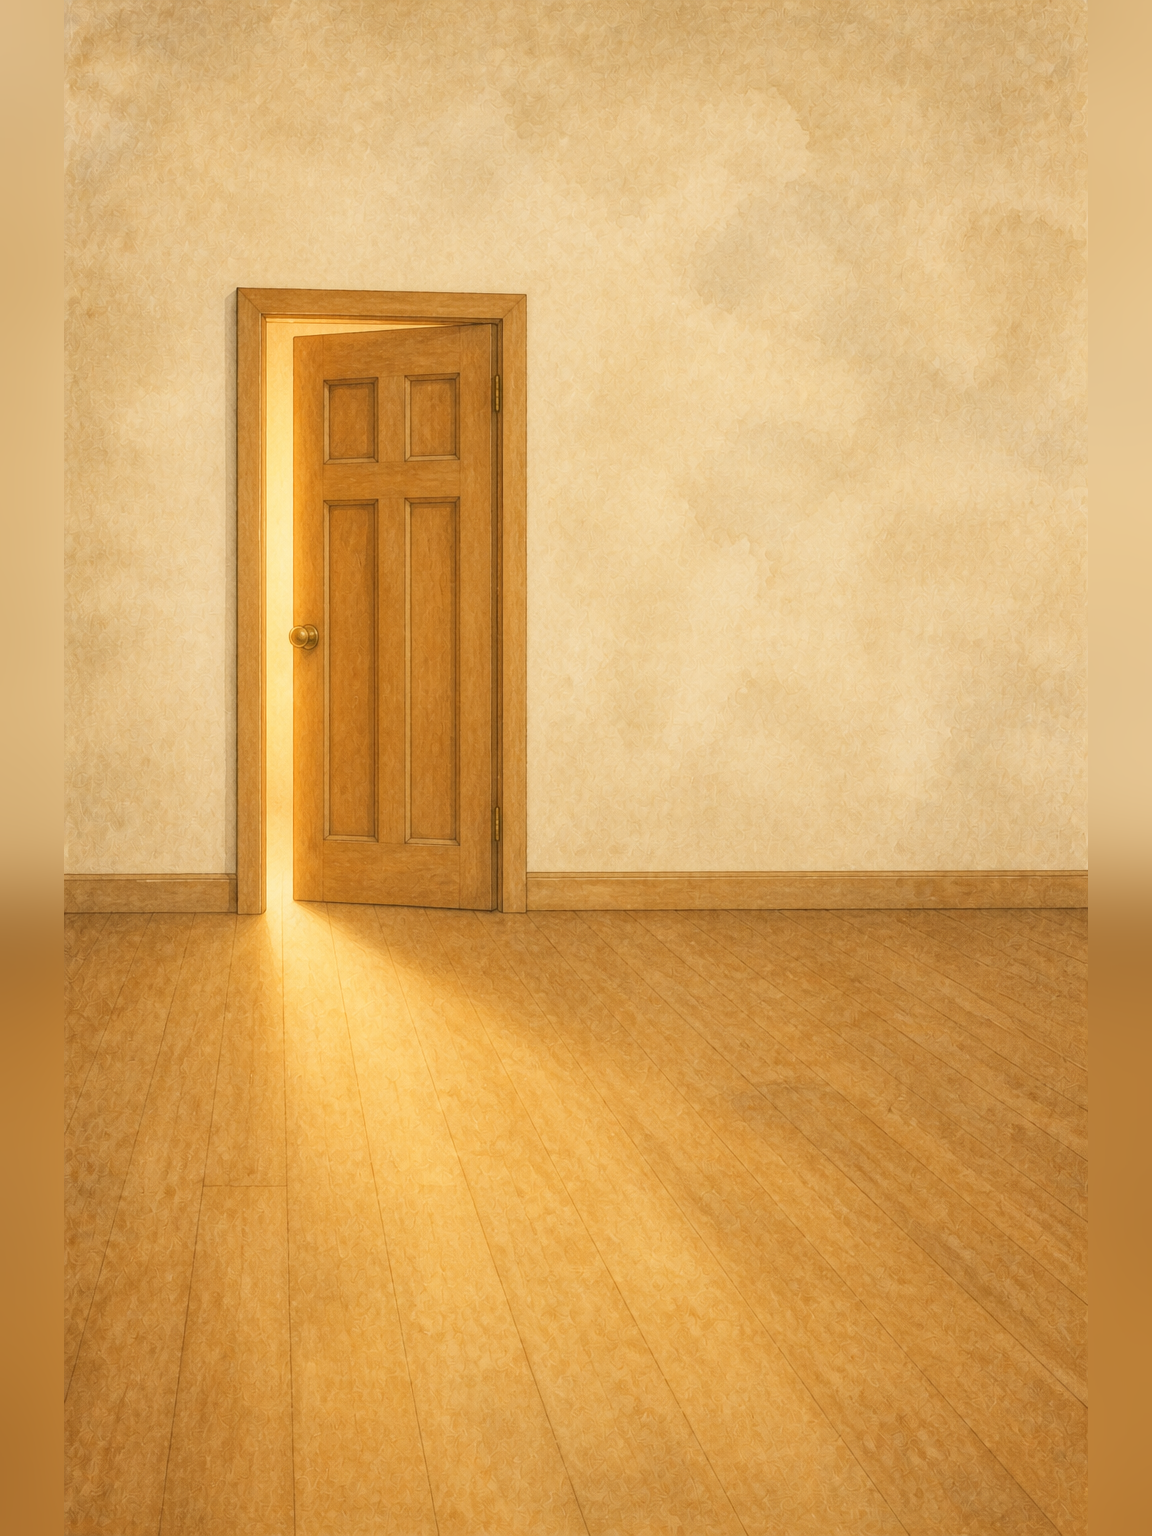
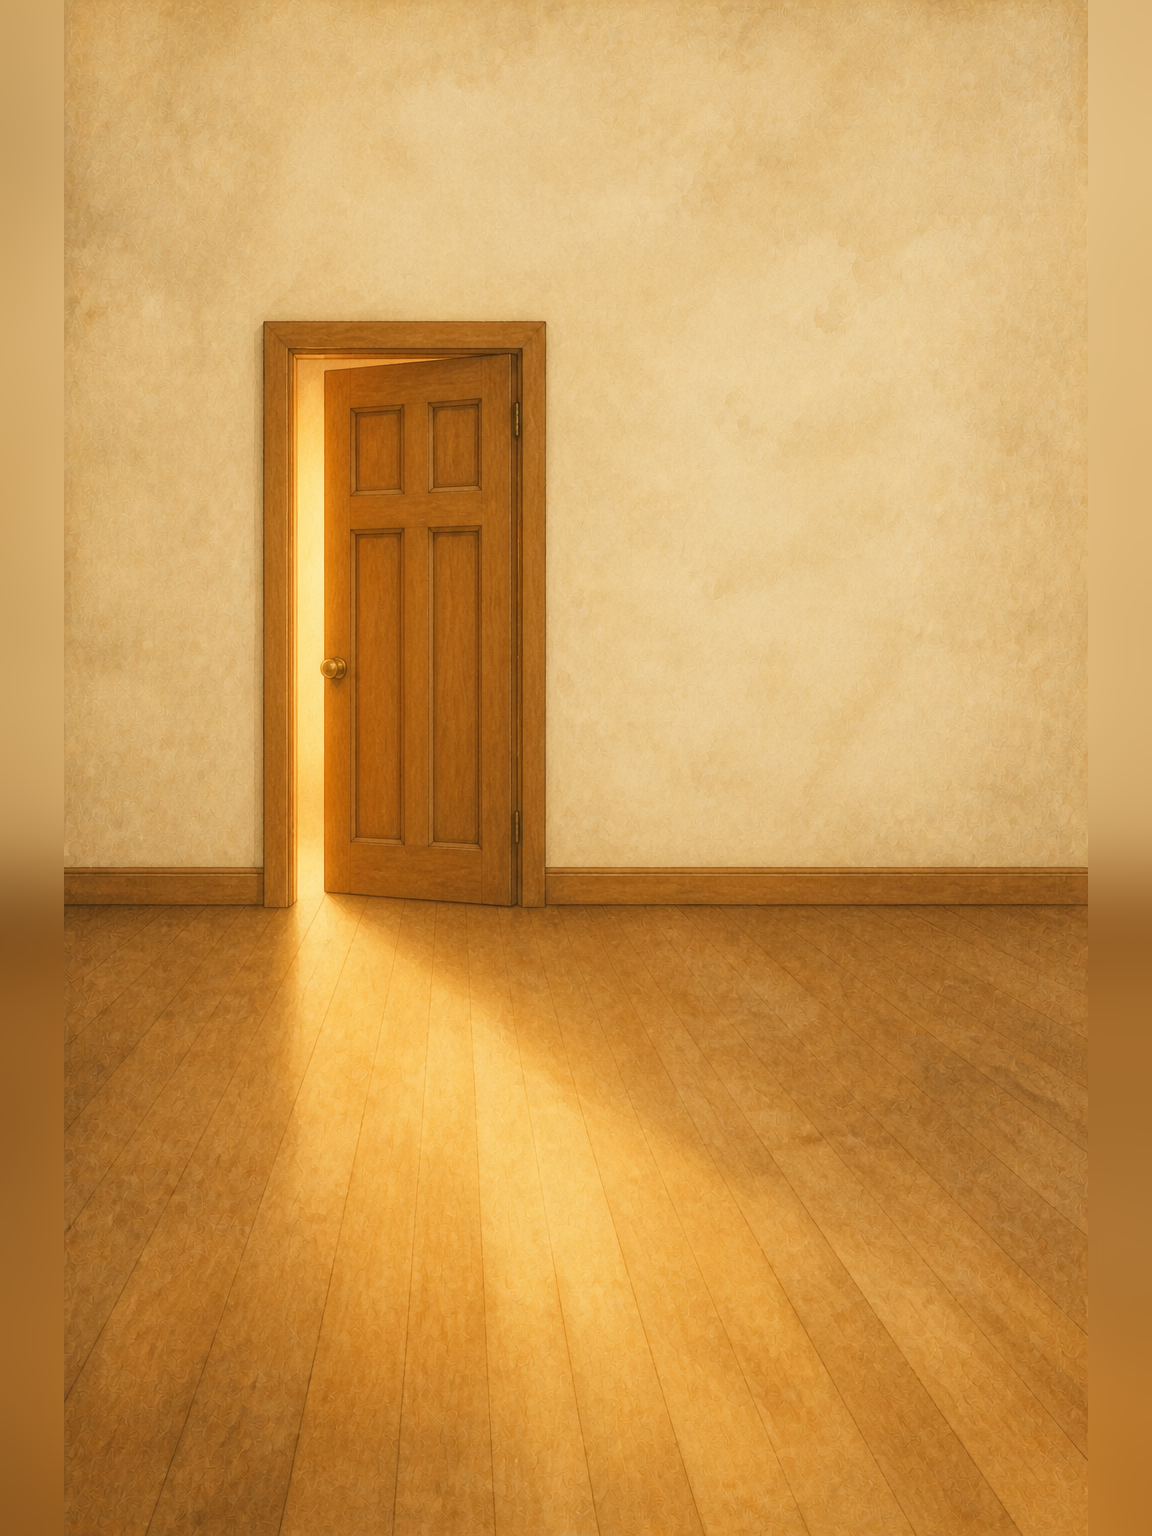
Nobody Labeled the Door: reroll the back cover (closing plate) text-free per owner edit
Owner reported baked text fighting the reader's overlaid HTML on the back
cover. The shipped plate OCR'd clean, but the reroll order was honored via
render_cover.py --no-cast --no-text (abu 1.1.1 closing-plate mode): new
plate passes full invariant read-back + zero-glyph OCR, old plate parked in
candidates/. No narrated text changed, so no narration or publish.

diff --git a/SAVE-LOG.md b/SAVE-LOG.md
@@ -39,3 +39,5 @@ surname is dropped in the picture book but not there. `it-only-has-to-fly` still
 2026-07-29T22:20:00Z · 65e974b · Two books shipped: It Only Has to Fly (rewritten from a rejected pipeline conception) and What a Book Is Made Of (Marcus, 25 spreads, Storywell cast). Framework: negatives coercion, setting geometry, near-plane clipper, absolute scale, cast closure.
 
 2026-08-07T20:00:00Z · bd96eed · **Nobody Labeled the Door shipped to disk: the commissioned "The Windows" founder book, full chain, headless.** 22 spreads, thesis spine (hindsight vs the open moment), refrain "Nobody labeled the door." New motif `the-plain-door` (blueprint-seeded elevation; master/ajar/museum; four-panel two-row leaf, knob left as viewed; open states show only warm light, never what is behind). Reuse receipts: maya (visitor founder), gary (the guide), the-childhood-bedrooms (remote era), chief-of-agents + sub-agent + supercharged-laptop (agent era). Voice-gate PASS first try on manuscript AND publish block; assert-story green; 8 re-rolls total (six-panel colonial drift on the door beaten with explicit two-row geometry language, bedrooms-grid fidelity, laptop orange glow, lowercase mark on cover); book-doctor healthy; 24 narration clips. Plaques baked exactly: THE CLOUD, THE WEB, THE AGENTS. First canon/properties record written (nobody-labeled-the-door); build-canon deferred until the other 12 books have records (root CANON.md is the hand prose tour; generating universe/CANON.md with one row would mislead). Framework paved out of this run: render_cover.py now forwards --no-cast/--no-text/--negative (abu plugin 1.1.1), ending the hand-chained closing plate recorded in two books' recipes. Run 2026-08-07-1340-chat-3294 → awaiting-blessing; platform delivery on Gary's word.
+
+2026-08-07T22:45:00Z · (pending) · **Nobody Labeled the Door: back cover (closing plate) rerolled text-free on the owner's edit.** Owner: "the back cover image has text that interferes with the overlaid html text. reroll the back cover image to not have text." Diligence first: the shipped closing plate was crop-zoomed and OCR'd (tesseract) and contained ZERO glyphs — the only endcap with baked text is the front cover (title + mark, by design). Honored the reroll anyway via the paved path: `render_cover.py --no-cast --no-text --with the-plain-door=ajar` (abu plugin 1.1.1's closing-plate mode, first real use since it was paved OUT of this book's own hand-chained recipe), same scene/anchor/negatives as the original. New plate read-back PASS on every the-plain-door invariant (four-panel two-row leaf, knob left as viewed, only warm light through the gap, register discipline, no people) and OCR zero glyphs; composition keeps the lower half + right side calm for the reader's overlaid HTML (The End / title / closing note). Old plate parked at candidates/closing-plate-v1-preroll*. book-doctor: healthy. No text changed → no voice-gate, no narration, no publish (per order; book remains awaiting platform delivery). Hypothesis for what the owner saw, left for Gary: picture-book-reader's back-cover slot falls back to the TITLED front cover when spread-(N+1) is missing (BookReader.tsx onError → coverSrc), so any preview before this book is published shows baked title text under the overlaid HTML — publishing is what makes the clean plate appear. Run 2026-08-07-1701-chat-a98f → awaiting-blessing.
